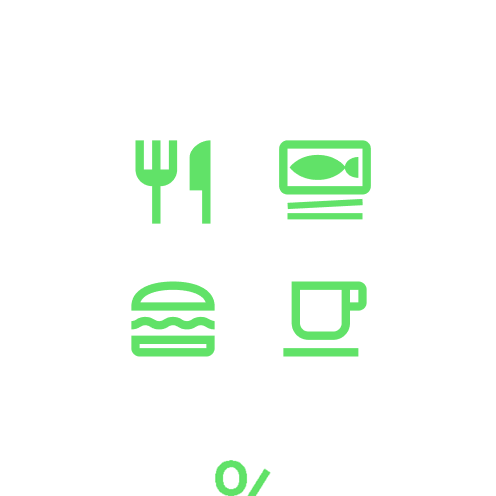
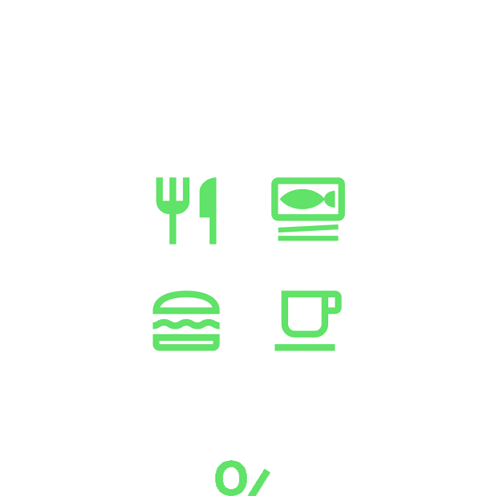
add section to index, change report link to readonly

diff --git a/_site/index.html b/_site/index.html
@@ -77,26 +77,77 @@
   <div class="banner section">
     <img class="section_image" src="assets/images/index_page/beginning.jpg" alt="">
     <div class="section_text">
-      <h2>Story: From sketchings to design iteration</h2>
+      <h3>Story: From sketchings to design iteration</h3>
       <p>The design of Hyllo started during a quarantine in July of 2021 when
          I was sitting outdoor seeing the empty street. But the whole idea has
          been brewing in my head for years.
-         <a href="/story.html">Here's how Hyllo was developed from sketchings to a workable prototype.</a></p>
+         <a href="story.html">Here's how Hyllo was developed from sketchings to a workable prototype.</a></p>
     </div>
+  </div>
+
+  <div class="flex-box-large">
+    <a href="https://www.figma.com/proto/cpPIbnwWO6BBONS1IBYcbd/v1.0?node-id=516%3A2267&scaling=scale-down&page-id=111%3A387&starting-point-node-id=516%3A2212">
+      <img src="assets/images/index_page/index_calendar.jpg" alt="">
+      <div class="overlay">
+        <div class="text">
+          <h3>Try the interactive prototype</h3>
+          A mid-fi prototype built by Figma.
+        </div>
+      </div>
+    </a>
+  </div>
+
+  <div class="flex-box-large">
+    <a href="https://www.figma.com/proto/cpPIbnwWO6BBONS1IBYcbd/v1.0?node-id=516%3A2267&scaling=scale-down&page-id=111%3A387&starting-point-node-id=516%3A2212">
+      <img src="assets/images/index_page/states_insights.jpg" alt="">
+      <div class="overlay">
+        <div class="text">
+          <h4>What the testers said about the prototype.</h4>
+          <p>"I find it is easy to use without much practice and is very clear what it does" Tester #2250102</p>
+          <p>"It looks good, and I like the idea. I think it has a good graph system." Tester #5227252</p>
+        </div>
+      </div>
+    </a>
   </div>
 
   <div class="banner section">
     <img class="section_image" src="assets/images/index_page/question.jpg" alt="">
     <div class="section_text">
-      <h2>Questions you may want to ask about Hyllo</h2>
+      <h3>Questions you may want to ask about Hyllo</h3>
       <p>How's Hyllo different from other health apps? <br> Should I use Hyllo? <br> Read <a href="about.html">About </a> page and <a href="qas.html">QAs</a> page.</p>
     </div>
+  </div>
+
+  <div class="flex-box-large">
+    <a href="https://app.maze.co/report/6wnrktd3xoqp">
+      <img src="assets/images/index_page/maze_1.jpg" alt="">
+      <div class="overlay">
+        <div class="text">
+          <h4>Test the prototype</h4>
+          <p>It's fun and nervous to test the prototype!</p>
+          <p>See the full usability test report on maze.</p>
+        </div>
+      </div>
+    </a>
+  </div>
+
+  <div class="flex-box-large">
+    <a href="https://1drv.ms/p/s!Apq2PZcP-VGpiwbMxeTKqD6bntwV?e=UdWvg3">
+      <img src="assets/images/index_page/insights.jpg" alt="">
+      <div class="overlay">
+        <div class="text">
+          <h4>Learn from users</h4>
+          <p>The best inspiration should be distilled from evidence given by real users.</p>
+          <p>See the full research report based on real user feeback.</p>
+        </div>
+      </div>
+    </a>
   </div>
 
   <div class="banner section">
     <img class="section_image" src="assets/images/index_page/binary_numbers.jpg" alt="">
     <div class="section_text">
-      <h2>Minimal stress</h2>
+      <h3>Minimal stress</h3>
       <p>One of Hyllo's design principles is "Minimal Stress" -- it tries its best not to add more stress to our already stressful life. <a href="design_principles.html">Read more design principles or Hyllo.</a> </p>
     </div>
   </div>

diff --git a/index.html b/index.html
@@ -55,7 +55,7 @@ layout: global
   <div class="banner section">
     <img class="section_image" src="assets/images/index_page/beginning.jpg" alt="">
     <div class="section_text">
-      <h2>Story: From sketchings to design iteration</h2>
+      <h3>Story: From sketchings to design iteration</h3>
       <p>The design of Hyllo started during a quarantine in July of 2021 when
          I was sitting outdoor seeing the empty street. But the whole idea has
          been brewing in my head for years.
@@ -63,18 +63,69 @@ layout: global
     </div>
   </div>
 
+  <div class="flex-box-large">
+    <a href="https://www.figma.com/proto/cpPIbnwWO6BBONS1IBYcbd/v1.0?node-id=516%3A2267&scaling=scale-down&page-id=111%3A387&starting-point-node-id=516%3A2212">
+      <img src="assets/images/index_page/index_calendar.jpg" alt="">
+      <div class="overlay">
+        <div class="text">
+          <h3>Try the interactive prototype</h3>
+          A mid-fi prototype built by Figma.
+        </div>
+      </div>
+    </a>
+  </div>
+
+  <div class="flex-box-large">
+    <a href="https://www.figma.com/proto/cpPIbnwWO6BBONS1IBYcbd/v1.0?node-id=516%3A2267&scaling=scale-down&page-id=111%3A387&starting-point-node-id=516%3A2212">
+      <img src="assets/images/index_page/states_insights.jpg" alt="">
+      <div class="overlay">
+        <div class="text">
+          <h4>What the testers said about the prototype.</h4>
+          <p>"I find it is easy to use without much practice and is very clear what it does" Tester #2250102</p>
+          <p>"It looks good, and I like the idea. I think it has a good graph system." Tester #5227252</p>
+        </div>
+      </div>
+    </a>
+  </div>
+
   <div class="banner section">
     <img class="section_image" src="assets/images/index_page/question.jpg" alt="">
     <div class="section_text">
-      <h2>Questions you may want to ask about Hyllo</h2>
+      <h3>Questions you may want to ask about Hyllo</h3>
       <p>How's Hyllo different from other health apps? <br> Should I use Hyllo? <br> Read <a href="about.html">About </a> page and <a href="qas.html">QAs</a> page.</p>
     </div>
+  </div>
+
+  <div class="flex-box-large">
+    <a href="https://app.maze.co/report/6wnrktd3xoqp">
+      <img src="assets/images/index_page/maze_1.jpg" alt="">
+      <div class="overlay">
+        <div class="text">
+          <h4>Test the prototype</h4>
+          <p>It's fun and nervous to test the prototype!</p>
+          <p>See the full usability test report on maze.</p>
+        </div>
+      </div>
+    </a>
+  </div>
+
+  <div class="flex-box-large">
+    <a href="https://1drv.ms/p/s!Apq2PZcP-VGpiwbMxeTKqD6bntwV?e=UdWvg3">
+      <img src="assets/images/index_page/insights.jpg" alt="">
+      <div class="overlay">
+        <div class="text">
+          <h4>Learn from users</h4>
+          <p>The best inspiration should be distilled from evidence given by real users.</p>
+          <p>See the full research report based on real user feeback.</p>
+        </div>
+      </div>
+    </a>
   </div>
 
   <div class="banner section">
     <img class="section_image" src="assets/images/index_page/binary_numbers.jpg" alt="">
     <div class="section_text">
-      <h2>Minimal stress</h2>
+      <h3>Minimal stress</h3>
       <p>One of Hyllo's design principles is "Minimal Stress" -- it tries its best not to add more stress to our already stressful life. <a href="design_principles.html">Read more design principles or Hyllo.</a> </p>
     </div>
   </div>

diff --git a/_site/assets/css/style.css b/_site/assets/css/style.css
@@ -14,9 +14,9 @@
 
 .text { z-index: 99; opacity: 1; color: white; font-size: 20px; position: absolute; top: 50%; left: 50%; -webkit-transform: translate(-50%, -50%); -ms-transform: translate(-50%, -50%); transform: translate(-50%, -50%); text-align: center; }
 
-.section { display: flex; flex-direction: row; border-top: 10px solid white; border-bottom: 10px solid white; }
+.section { display: flex; flex-direction: row; border-top: 10px solid white; border-bottom: 10px solid white; align-items: center; }
 
-.section .section_image { height: 250px; width: 250px; padding: 10px; }
+.section .section_image { height: 250px; width: 250px; padding: 10px; align-self: center; }
 
 .section .section_text { margin: 20px; }
 

diff --git a/_site/story.html b/_site/story.html
@@ -106,7 +106,7 @@ mood when you feel energetic and vice versa.</p>
 
 <ul>
   <li><a href="https://t.maze.co/51572533">The original Maze test link</a></li>
-  <li><a href="https://1drv.ms/p/s!Apq2PZcP-VGpiwb63p_hbkX7M4B3?e=juwCVb">The complete Research report</a></li>
+  <li><a href="https://1drv.ms/p/s!Apq2PZcP-VGpiwbMxeTKqD6bntwV?e=UdWvg3">The complete Research report</a></li>
 </ul>
 
 <h3 id="usability-test">Usability Test</h3>

diff --git a/_sass/index.scss b/_sass/index.scss
@@ -72,11 +72,13 @@
   flex-direction: row;
   border-top: 10px solid white;
   border-bottom: 10px solid white;
+  align-items: center;
 
   .section_image {
     height: 250px;
     width: 250px;
     padding: 10px;
+    align-self: center;
   }
 
   .section_text {

diff --git a/_site/contact.html b/_site/contact.html
@@ -29,7 +29,10 @@
 
       <h2>About me</h2>
 
-Write me: xll290016537@gmail.com
+<p>Write me: xll290016537@gmail.com</p>
+
+<p>This is <a href="/">my blog site.</a></p>
+
     </div>
 
 

diff --git a/contact.html b/contact.html
@@ -6,4 +6,4 @@ layout: global
 
 <p>Write me: xll290016537@gmail.com</p>
 
-<p>This is <a href="/">the main site of mine.</a></p>
+<p>This is <a href="/">my blog site.</a></p>

diff --git a/story.md b/story.md
@@ -77,7 +77,7 @@ If an positive/negative pattern emerges repeatedly, then we can do something to 
 20 participants were recruited via a test service [maze](https://app.maze.co/) to finish a usability test on the mid-fi prototype. They were asked to finish a series of missions using the interactive prototype of Hyllo and then to answer various questions based on their experience.
 
 - [The original Maze test link](https://t.maze.co/51572533)
-- [The complete Research report](https://1drv.ms/p/s!Apq2PZcP-VGpiwb63p_hbkX7M4B3?e=juwCVb)
+- [The complete Research report](https://1drv.ms/p/s!Apq2PZcP-VGpiwbMxeTKqD6bntwV?e=UdWvg3)
 
 ### Usability Test
 
